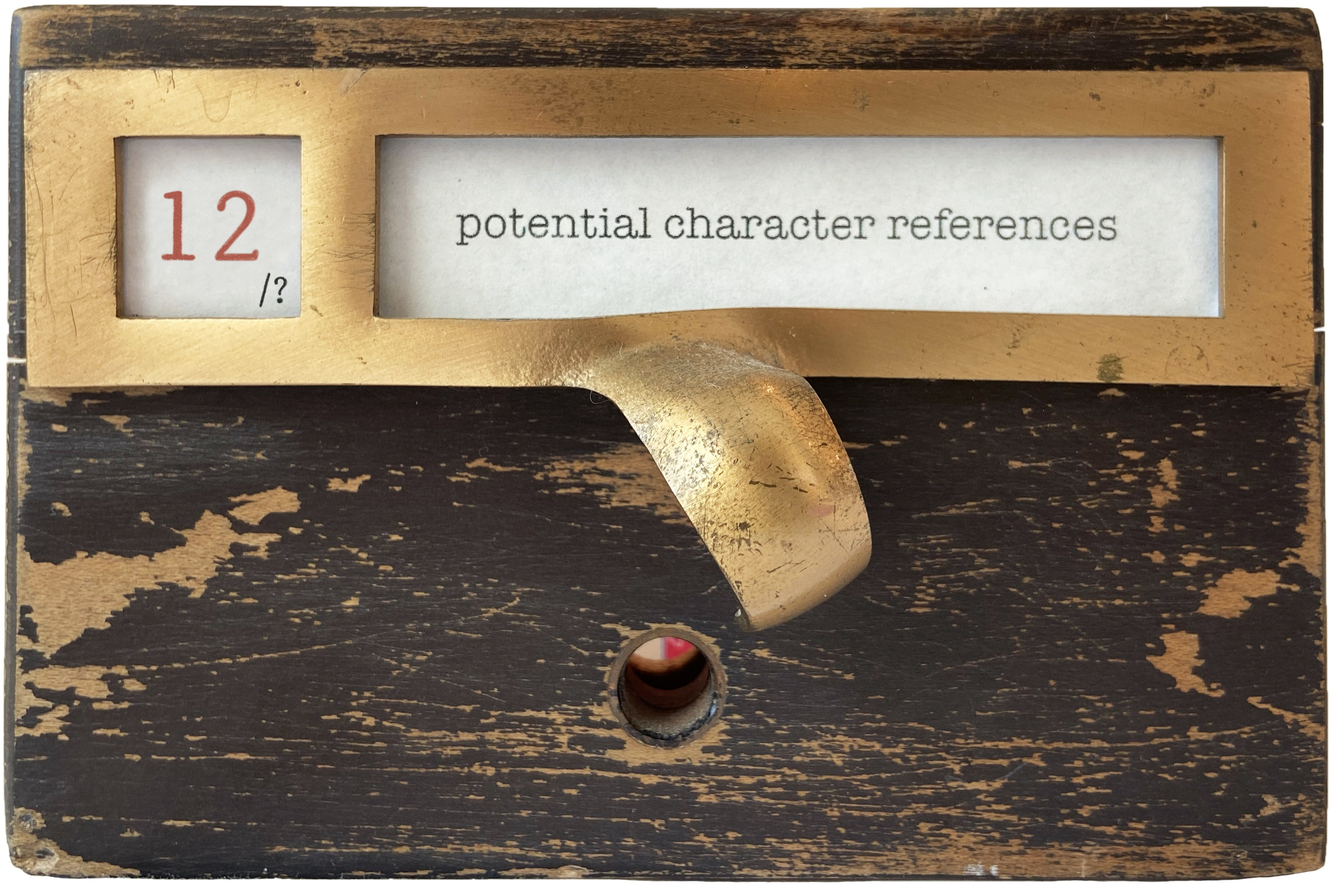
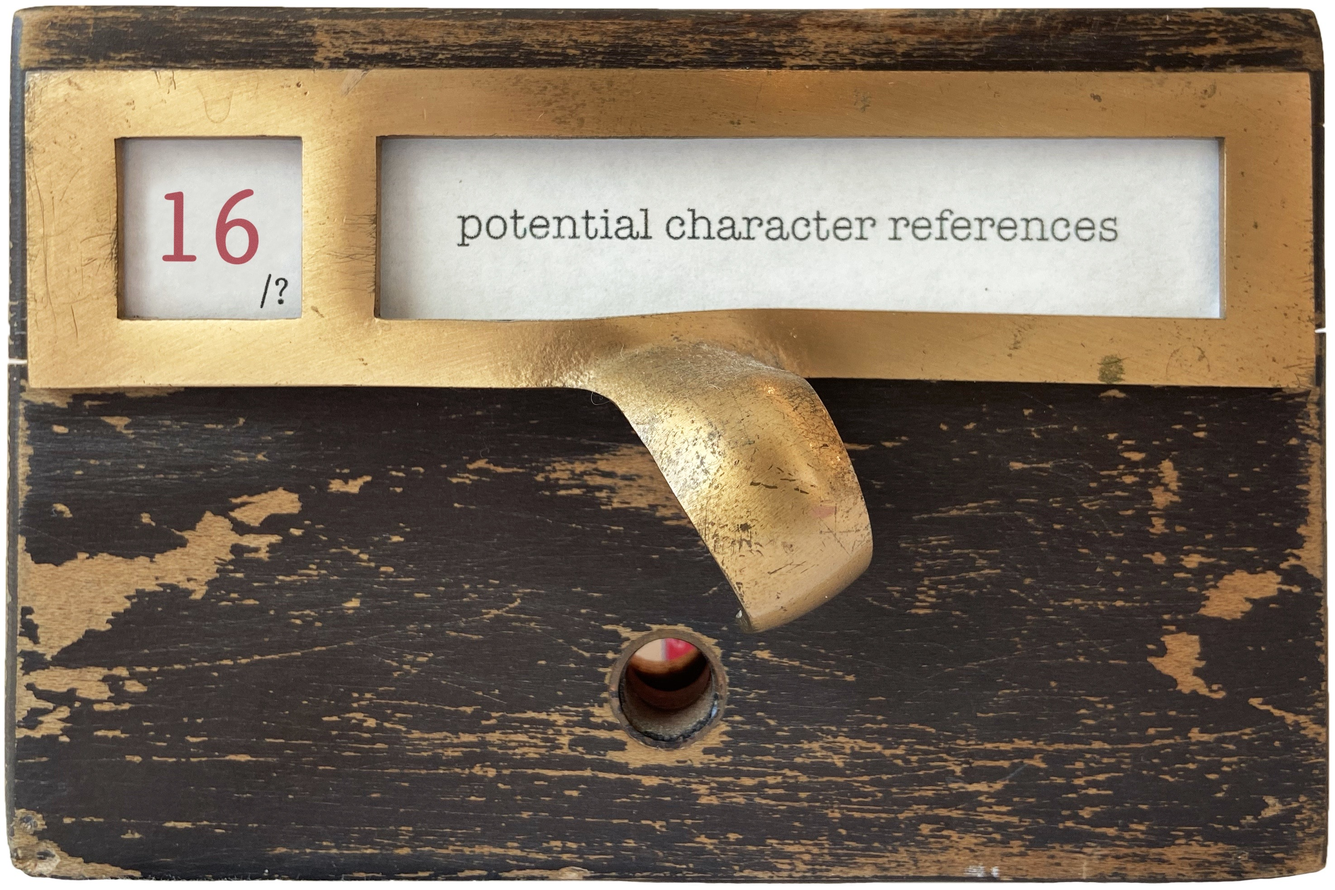
card additions

diff --git a/characters.html b/characters.html
@@ -82,7 +82,9 @@
 							</div>
 						</div>
 					</div>
+
 					<div class="row animate-box" data-animate-effect="fadeInLeft">
+
 						<div class="col-sm-3">
 							<div class="card-container">
 								<div class="card-front">
@@ -93,6 +95,18 @@
 								</div>
 							</div>
 						</div>
+
+						<div class="col-sm-3">
+							<div class="card-container">
+								<div class="card-front">
+										<img class="img-card" src="images/portfolio/characters/2_face.jpg" alt="2_face">
+								</div>
+								<div class="card-back">
+										<img class="img-card" src="images/portfolio/characters/2_text.jpg" alt="2_text">
+								</div>
+							</div>
+						</div>
+
 						<div class="col-sm-3">
 							<div class="card-container">
 								<div class="card-front">
@@ -103,6 +117,7 @@
 								</div>
 							</div>
 						</div>
+
 						<div class="col-sm-3">
 							<div class="card-container">
 								<div class="card-front">
@@ -113,6 +128,11 @@
 								</div>
 							</div>
 						</div>
+
+					</div>
+
+					<div class="row animate-box" data-animate-effect="fadeInLeft">
+
 						<div class="col-sm-3">
 							<div class="card-container">
 								<div class="card-front">
@@ -123,9 +143,7 @@
 								</div>
 							</div>
 						</div>
-					</div>
 
-					<div class="row animate-box" data-animate-effect="fadeInLeft">
 						<div class="col-sm-3">
 							<div class="card-container">
 								<div class="card-front">
@@ -136,6 +154,7 @@
 								</div>
 							</div>
 						</div>
+
 						<div class="col-sm-3">
 							<div class="card-container">
 								<div class="card-front">
@@ -146,6 +165,22 @@
 								</div>
 							</div>
 						</div>
+
+						<div class="col-sm-3">
+							<div class="card-container">
+								<div class="card-front">
+										<img class="img-card" src="images/portfolio/characters/21_face.jpg" alt="21_face">
+								</div>
+								<div class="card-back">
+										<img class="img-card" src="images/portfolio/characters/21_text.jpg" alt="21_text">
+								</div>
+							</div>
+						</div>
+
+					</div>
+
+					<div class="row animate-box" data-animate-effect="fadeInLeft">
+
 						<div class="col-sm-3">
 							<div class="card-container">
 								<div class="card-front">
@@ -156,6 +191,7 @@
 								</div>
 							</div>
 						</div>
+
 						<div class="col-sm-3">
 							<div class="card-container">
 								<div class="card-front">
@@ -166,9 +202,7 @@
 								</div>
 							</div>
 						</div>
-					</div>
 
-					<div class="row animate-box" data-animate-effect="fadeInLeft">
 						<div class="col-sm-3">
 							<div class="card-container">
 								<div class="card-front">
@@ -179,6 +213,7 @@
 								</div>
 							</div>
 						</div>
+
 						<div class="col-sm-3">
 							<div class="card-container">
 								<div class="card-front">
@@ -189,6 +224,11 @@
 								</div>
 							</div>
 						</div>
+
+					</div>
+
+					<div class="row animate-box" data-animate-effect="fadeInLeft">
+
 						<div class="col-sm-3">
 							<div class="card-container">
 								<div class="card-front">
@@ -199,16 +239,40 @@
 								</div>
 							</div>
 						</div>
+
 						<div class="col-sm-3">
 							<div class="card-container">
 								<div class="card-front">
-										<img class="img-card" src="images/portfolio/characters/76_face.jpg" alt="76_face">
+										<img class="img-card" src="images/portfolio/characters/57_face.jpg" alt="57_face">
 								</div>
 								<div class="card-back">
-										<img class="img-card" src="images/portfolio/characters/76_text.jpg" alt="76_text">
+										<img class="img-card" src="images/portfolio/characters/57_text.jpg" alt="57_text">
 								</div>
 							</div>
 						</div>
+
+						<div class="col-sm-3">
+							<div class="card-container">
+								<div class="card-front">
+										<img class="img-card" src="images/portfolio/characters/72_face.jpg" alt="72_face">
+								</div>
+								<div class="card-back">
+										<img class="img-card" src="images/portfolio/characters/72_text.jpg" alt="72_text">
+								</div>
+							</div>
+						</div>
+
+						<div class="col-sm-3">
+							<div class="card-container">
+								<div class="card-front">
+										<img class="img-card" src="images/portfolio/characters/77_face.jpg" alt="77_face">
+								</div>
+								<div class="card-back">
+										<img class="img-card" src="images/portfolio/characters/77_text.jpg" alt="77_text">
+								</div>
+							</div>
+						</div>
+
 					</div>
 
 				</div>
